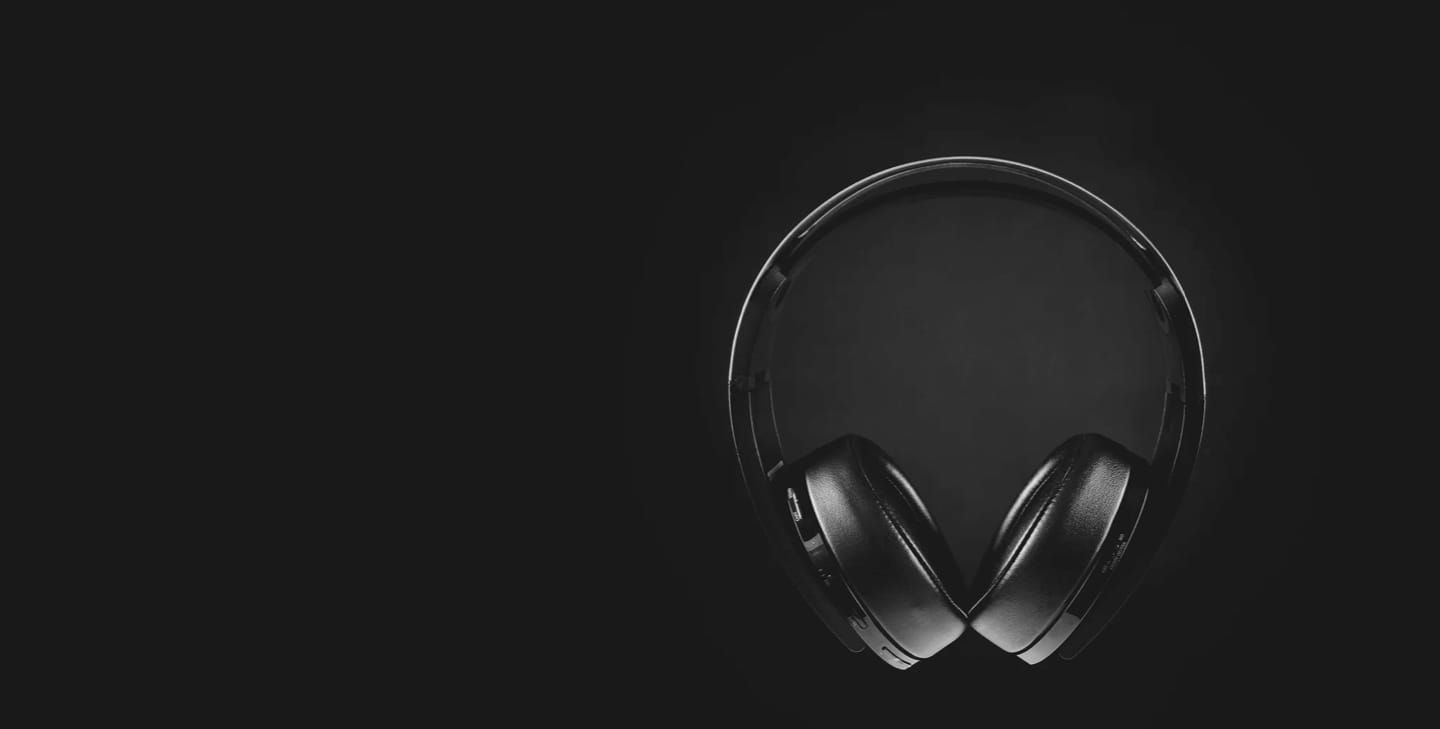
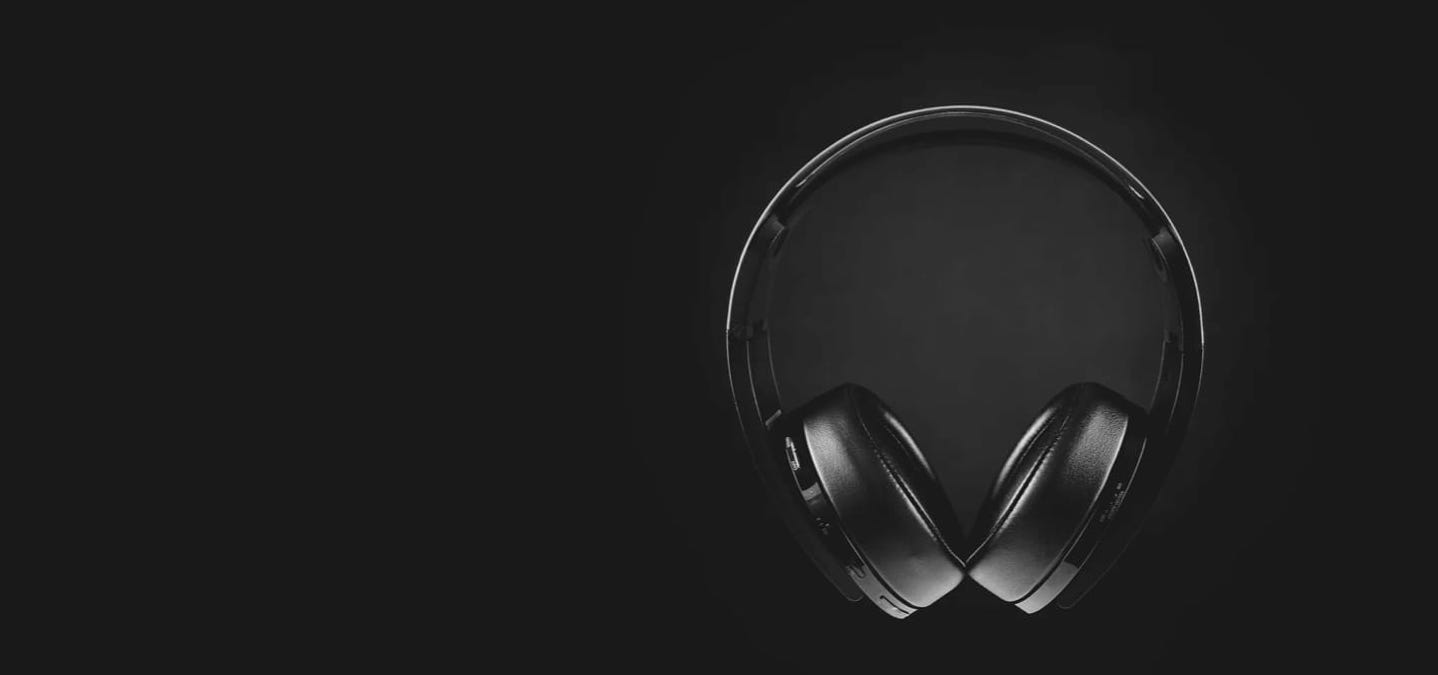
jumbotron done

diff --git a/src/components/LandingJumbotron.js b/src/components/LandingJumbotron.js
@@ -2,46 +2,22 @@ import classes from "./Jumbotron.module.css";
 
 function LandingJumbotron() {
   return (
-    <div className={classes.jumbotron}>
-      <span>NEW PRODUCT</span>
-      <h1 className="display-4">Hello, world!</h1>
-      <p className="lead">
-        This is a simple hero unit, a simple jumbotron-style component for
-        calling extra attention to featured content or information.
-      </p>
-
-      <p>
-        It uses utility classes for typography and spacing to space content out
-        within the larger container.
-      </p>
-      <p className="lead">
-        <a className="btn btn-primary btn-lg" href="#" role="button">
-          Learn more
-        </a>
-      </p>
-
-      {/* <div className={`container ${classes.JumbotronContainer}`}>
-        <img src={require("../assets/image-hero.jpg")} alt="new product" />
-        <div className="jumbotron">
+    <>
+      <div className={classes.Jumbotron}>
+        <div className={classes.text}>
           <span>NEW PRODUCT</span>
-          <h1 className="display-4">Hello, world!</h1>
-          <p className="lead">
-            This is a simple hero unit, a simple jumbotron-style component for
-            calling extra attention to featured content or information.
+          <p className={classes.title}>XX99 MARK II HEADPHONES</p>
+          <p className={classes.lead}>
+            Experience netural, lifelike audio and exceptional build quality
+            made for the passionate music enthusiast
           </p>
 
-          <p>
-            It uses utility classes for typography and spacing to space content
-            out within the larger container.
-          </p>
-          <p className="lead">
-            <a className="btn btn-primary btn-lg" href="#" role="button">
-              Learn more
-            </a>
-          </p>
+          <a className={`btn btn-lg ${classes.button}`} href="#" role="button">
+            SEE PRODUCT
+          </a>
         </div>
-      </div> */}
-    </div>
+      </div>
+    </>
   );
 }
 

diff --git a/src/components/Jumbotron.module.css b/src/components/Jumbotron.module.css
@@ -1,23 +1,54 @@
-.JumbotronContainer {
-  /* background-size: cover; */
-  width: 100%;
-  /* height: auto;
-  min-height: 500px;
-  border-top: 1px groove white; */
-  /* background-image: url("../assets/image-hero.jpg"); */
-}
-.topLeft {
-  position: absolute;
-  top: 20px;
-  left: 16px;
-  color: white;
-  text-align: left;
+@import url("https://fonts.googleapis.com/css2?family=Manrope:wght@200;300;400;500;600;700;800&display=swap");
+
+.Jumbotron {
+  background-image: url("../assets/image-header.jpg");
+  background-position: center;
+  background-repeat: no-repeat;
+  background-size: cover;
+  height: 80vh;
 }
 
-.jumbotron {
-  background-size: cover;
-  background-image: url("../assets/image-hero.jpg");
-  height: 100%;
-  min-height: 500px;
-  width: 100%;
+.text {
+  position: absolute;
+  top: 50%;
+  left: 50%;
+  transform: translate(-50%, -50%);
+  text-align: center;
+  color: white;
+}
+span {
+  font-weight: 200;
+  letter-spacing: 0.5em;
+}
+.title {
+  font-weight: 700;
+  font-size: 3.2rem;
+}
+
+.lead {
+  font-weight: 200;
+  font-size: 0.9rem;
+  margin-bottom: 25px;
+}
+
+.button {
+  border-radius: 0;
+  background-color: #d87d4a;
+  font-size: 0.8rem;
+  color: white;
+}
+.button:hover {
+  background-color: #fbaf85;
+}
+
+@media (min-width: 1199.98px) {
+  .Jumbotron {
+    background-image: url("../assets/image-hero.jpg");
+    height: 88vh;
+  }
+  .text {
+    text-align: left;
+    width: 25%;
+    transform: translate(-650px, 10px);
+  }
 }

diff --git a/src/components/OffcanvasMenu.js b/src/components/OffcanvasMenu.js
@@ -23,7 +23,7 @@ function OffcanvasMenu() {
               id={`offcanvasNavbar-expand-${expand}`}
               aria-labelledby={`offcanvasNavbarLabel-expand-${expand}`}
               placement="start"
-              className={classes.bgblack}
+              className={`${classes.bgblack} ${classes.Offcanvas}`}
             >
               <Offcanvas.Header closeButton>
                 <Offcanvas.Title id={`offcanvasNavbarLabel-expand-${expand}`}>
@@ -43,6 +43,7 @@ function OffcanvasMenu() {
           </Container>
         </Navbar>
       ))}
+      <div className={classes.line}></div>
     </>
   );
 }

diff --git a/src/App.js b/src/App.js
@@ -2,12 +2,17 @@ import "./App.css";
 import OffcanvasMenu from "./components/OffcanvasMenu";
 import "bootstrap/dist/css/bootstrap.min.css";
 import LandingJumbotron from "./components/LandingJumbotron";
+import Container from "react-bootstrap/Container";
 function App() {
   return (
-    <div className="App">
-      <OffcanvasMenu />
-      <LandingJumbotron />
-    </div>
+    <>
+      <div className="App">
+        <Container>
+          <OffcanvasMenu />
+          <LandingJumbotron />
+        </Container>
+      </div>
+    </>
   );
 }
 

diff --git a/src/App.css b/src/App.css
@@ -1,5 +1,7 @@
 .App {
   text-align: center;
+  background-color: #181818 !important;
+  border-radius: 10px;
 }
 
 .nav-link {
@@ -8,8 +10,20 @@
 .nav-link:hover {
   color: orange !important;
 }
-.bgblack {
-  background-color: #181818 !important;
+.btn-close {
+  filter: invert(1) sepia(1) saturate(8) hue-rotate(175deg);
+}
+
+.navbar-toggler-icon {
+  width: 1.2em !important;
+  height: 1.2em !important;
+}
+
+.navbar-toggler {
+  border: none !important;
+}
+:focus {
+  box-shadow: none !important;
 }
 
 @media (min-width: 1199.98px) {

diff --git a/src/index.css b/src/index.css
@@ -1,13 +1,9 @@
 body {
   margin: 0;
-  font-family: -apple-system, BlinkMacSystemFont, 'Segoe UI', 'Roboto', 'Oxygen',
-    'Ubuntu', 'Cantarell', 'Fira Sans', 'Droid Sans', 'Helvetica Neue',
-    sans-serif;
-  -webkit-font-smoothing: antialiased;
-  -moz-osx-font-smoothing: grayscale;
+  font-family: "Manrope", sans-serif;
 }
 
 code {
-  font-family: source-code-pro, Menlo, Monaco, Consolas, 'Courier New',
+  font-family: source-code-pro, Menlo, Monaco, Consolas, "Courier New",
     monospace;
 }

diff --git a/src/components/Menu.module.css b/src/components/Menu.module.css
@@ -1,3 +1,11 @@
 .bgblack {
   background-color: #181818 !important;
 }
+
+.line {
+  border-top: 1px solid white;
+}
+
+.Offcanvas {
+  padding: 30px;
+}
